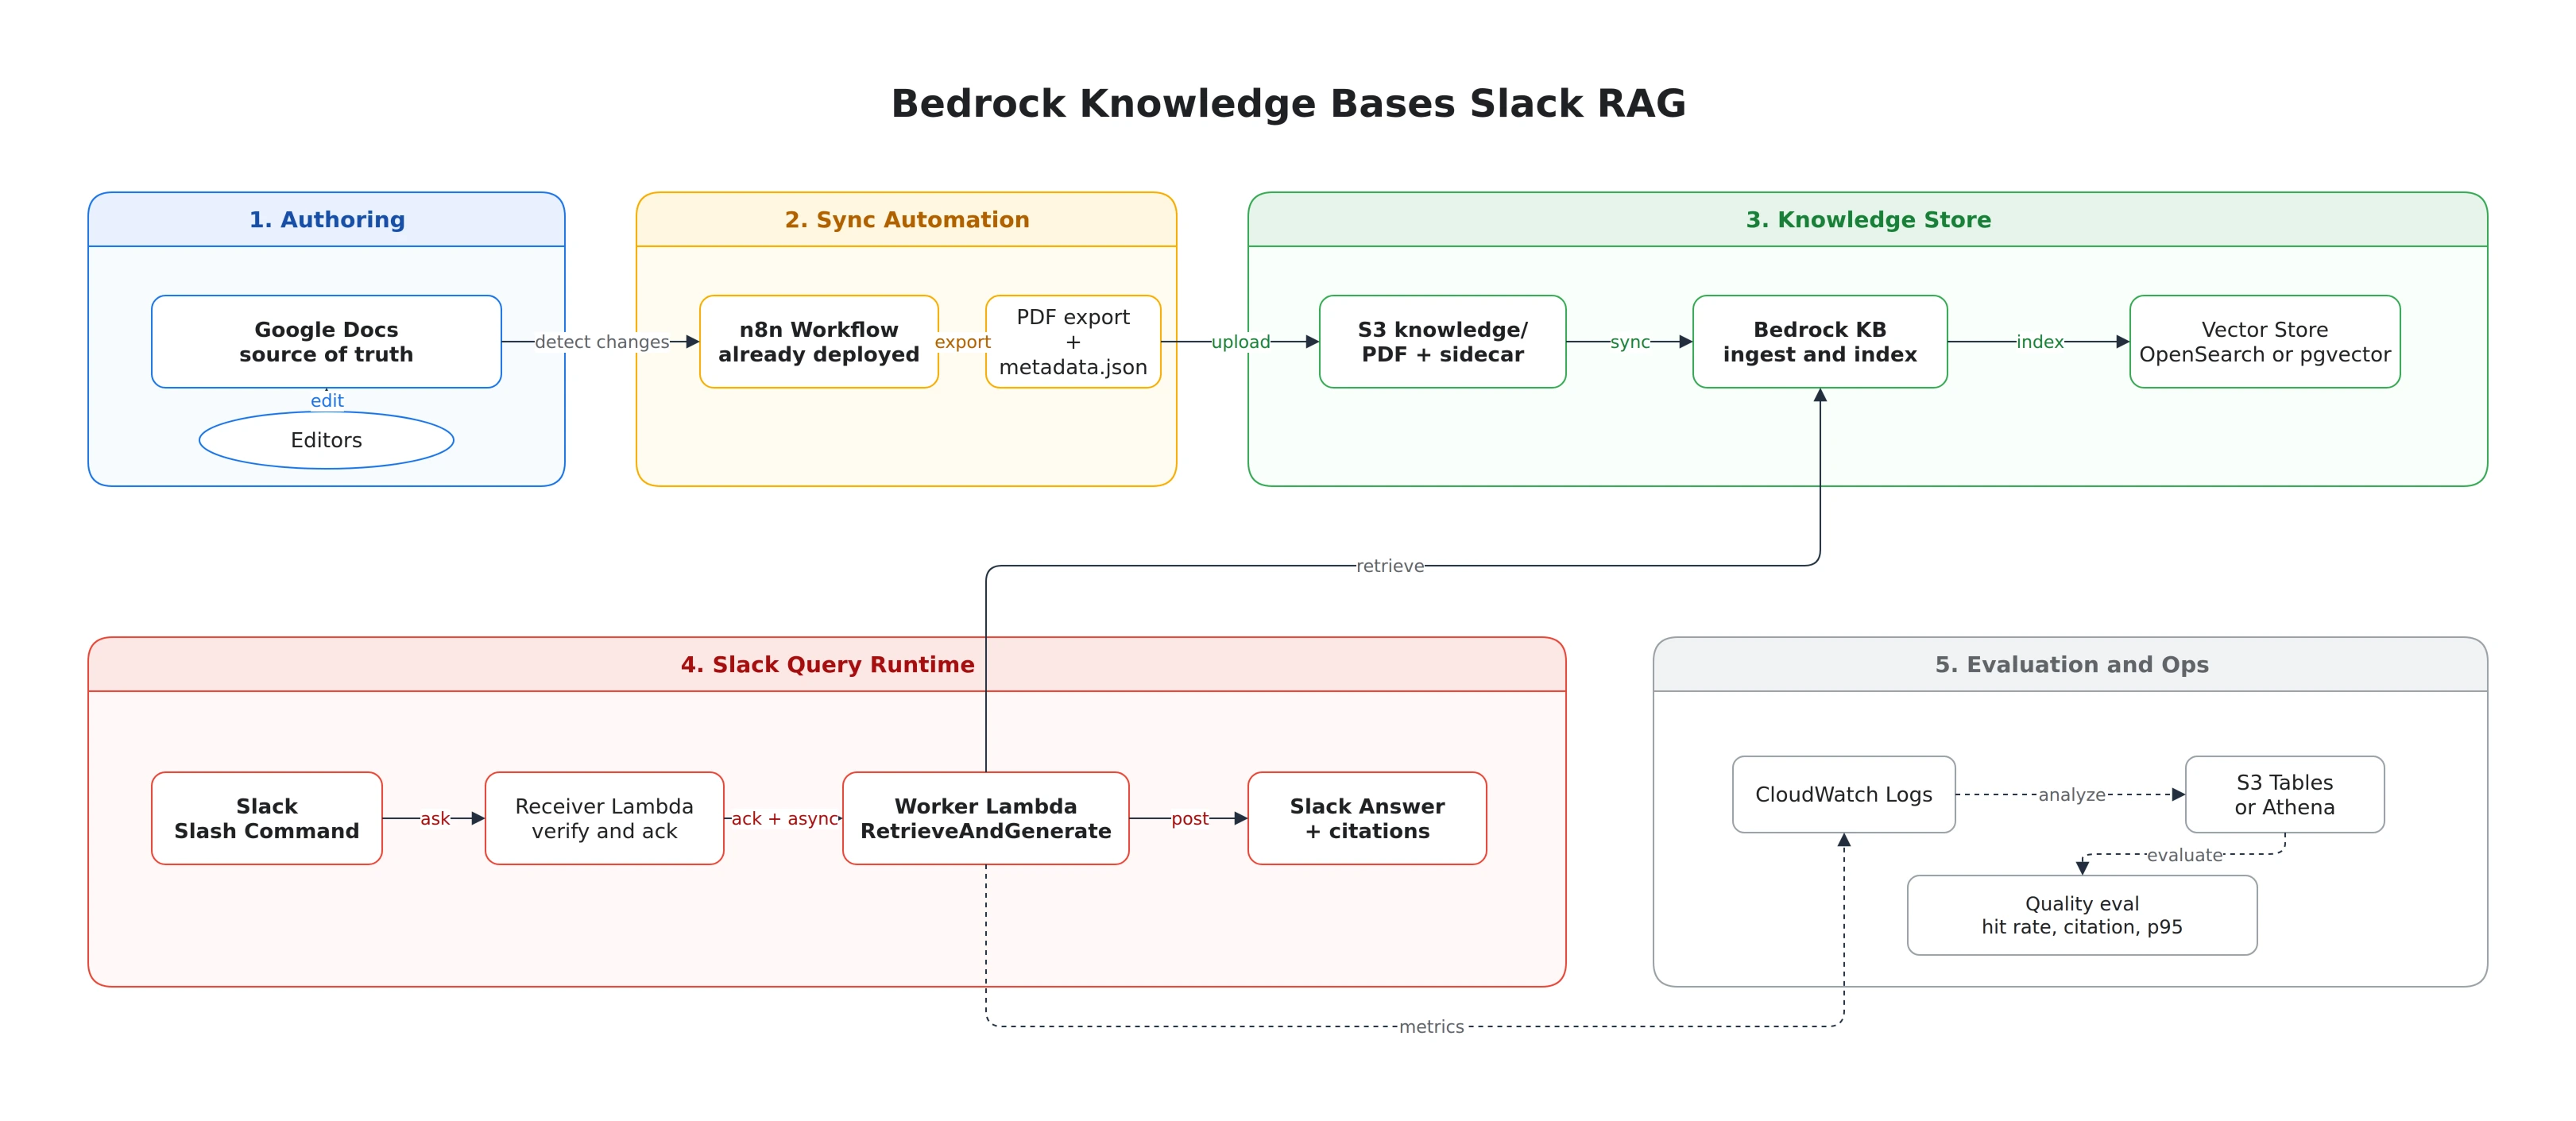
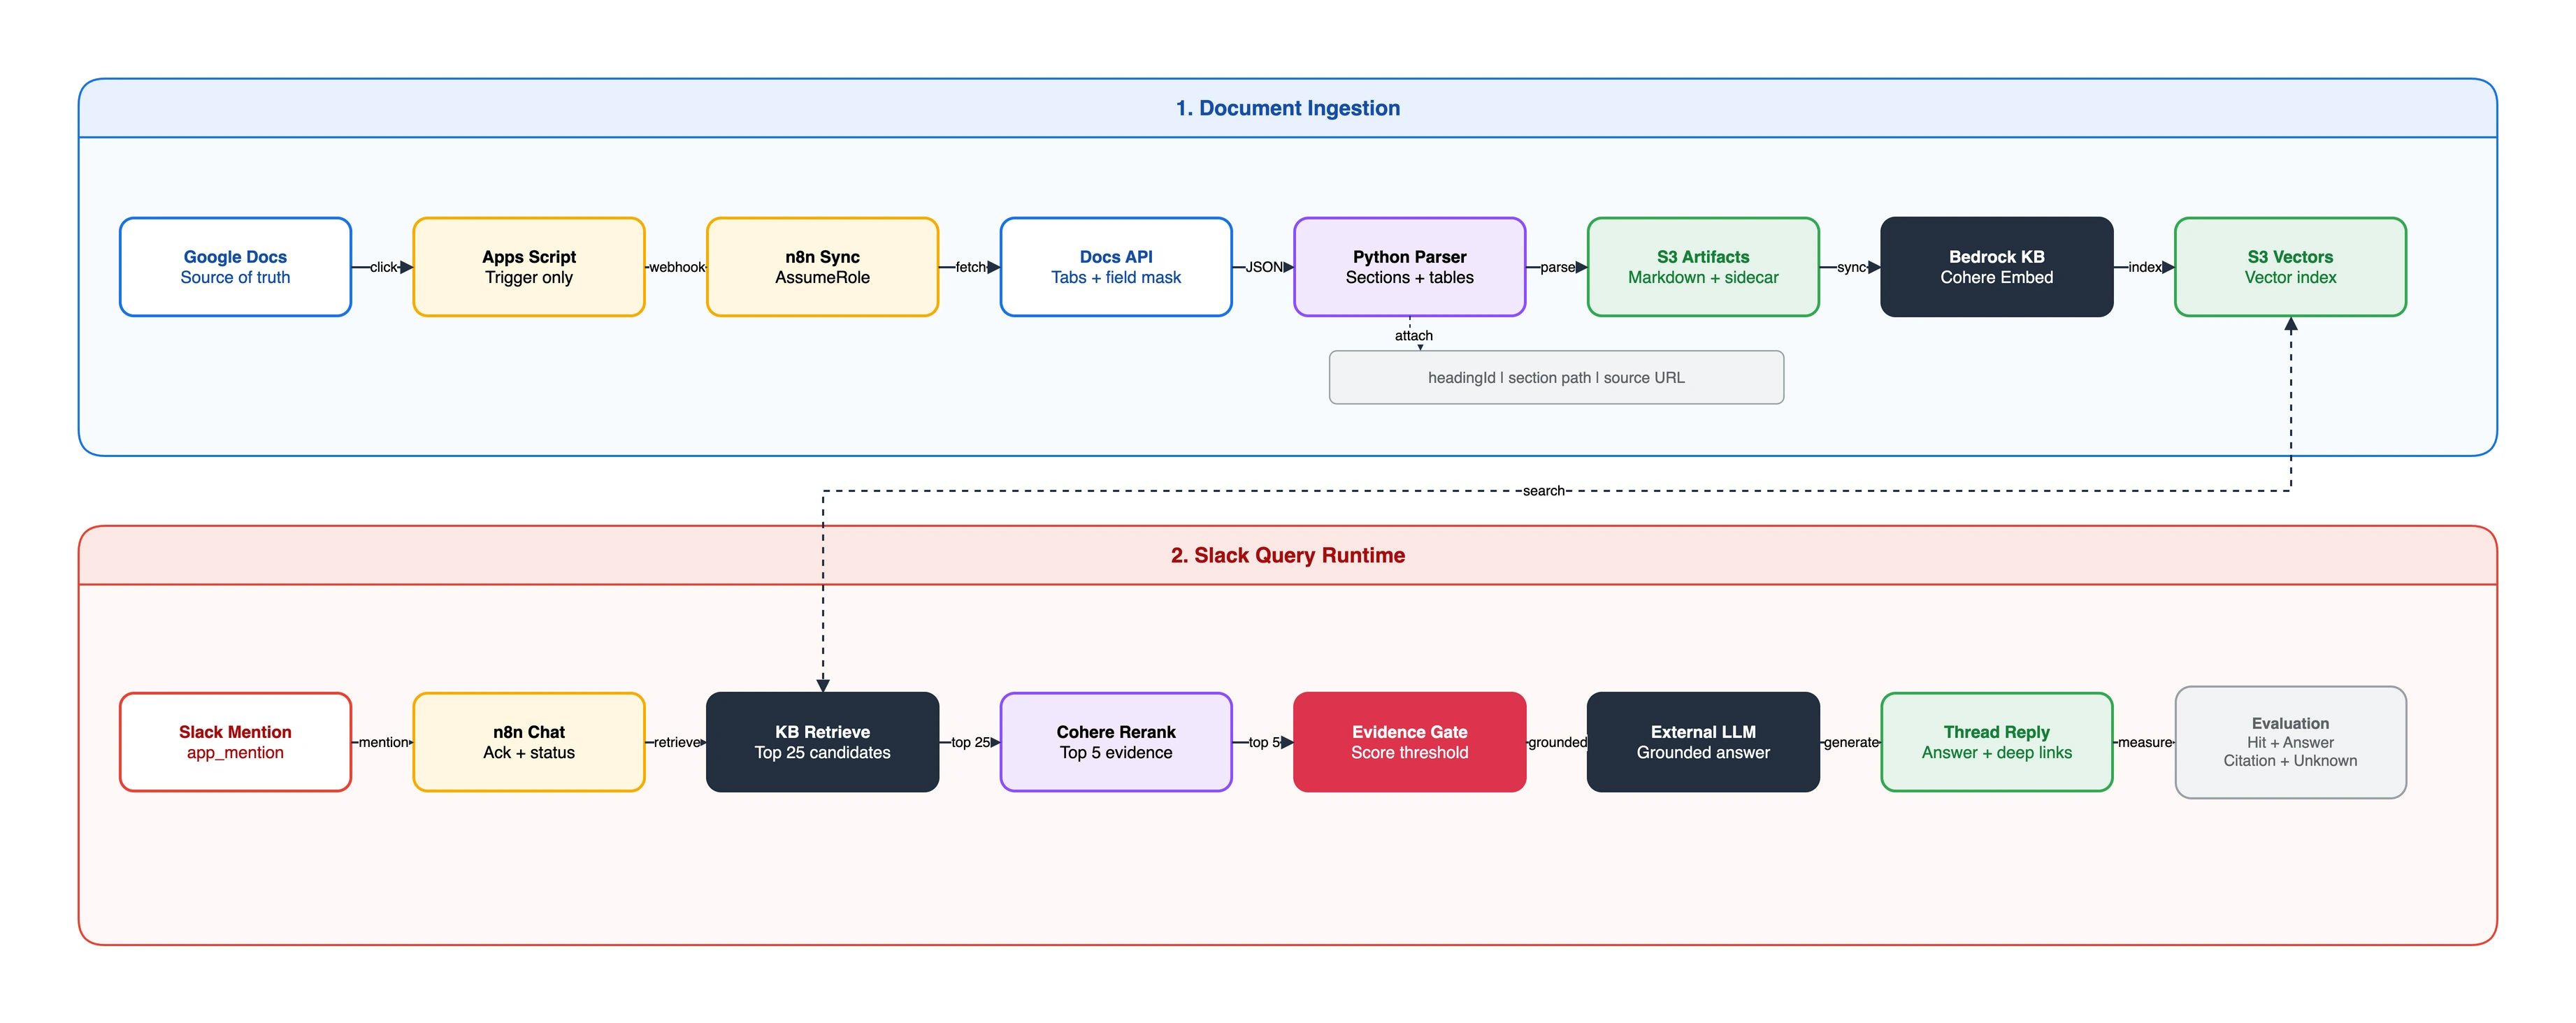
docs(aws): refresh bedrock rag diagrams

diff --git a/_posts/2026/07/2026-07-02-aws-bedrock-knowledge-base.md b/_posts/2026/07/2026-07-02-aws-bedrock-knowledge-base.md
@@ -36,7 +36,7 @@ Bedrock Knowledge Base는 foundation model(FM)을 사내 데이터에 연결해 
 
 즉 RAG 시리즈에서 다룬 개념을 그대로 두되, 구현/운영 부담을 서비스로 넘기는 것이 핵심입니다.
 
-![Bedrock Knowledge Base 흐름 - S3(Documents)를 Bedrock KB가 ingest(parse/chunk/embed)해 Vector Store에 index하고, 질의 시 RetrieveAndGenerate가 top-k로 검색해 FM(Claude)이 Answer + Citation을 생성](/assets/img/aws/bedrock-kb-architecture.webp)
+![Amazon Bedrock Knowledge Base 전체 구조 - 관리형 ingestion은 S3와 connector의 문서를 fetch, parse, chunk, embed해 vector store에 색인합니다. 질의는 Agent Runtime에서 IAM과 metadata filter를 적용한 뒤 top-k chunk를 검색하고, foundation model이 출처 기반 Answer와 Citation을 생성합니다.](/assets/img/aws/bedrock-kb-architecture.webp)
 
 ---
 